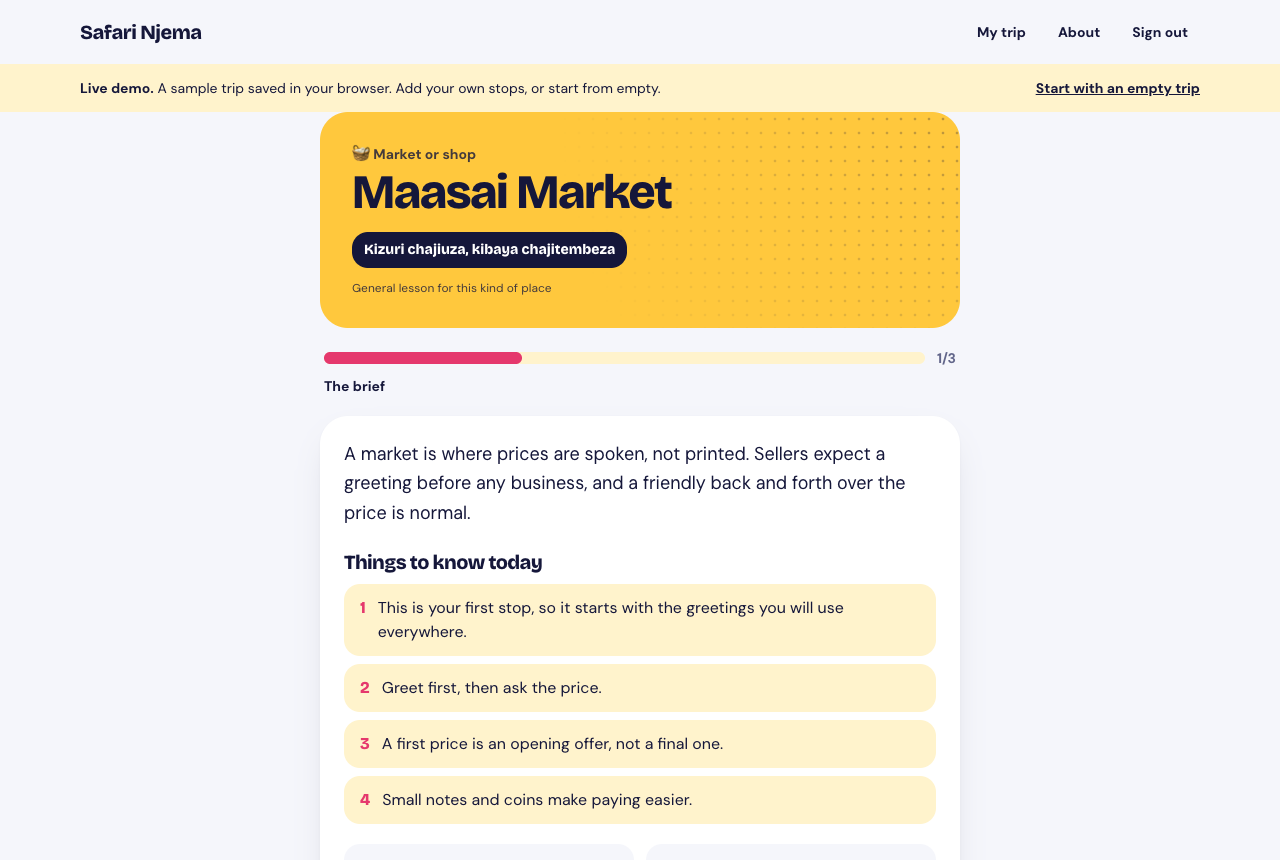
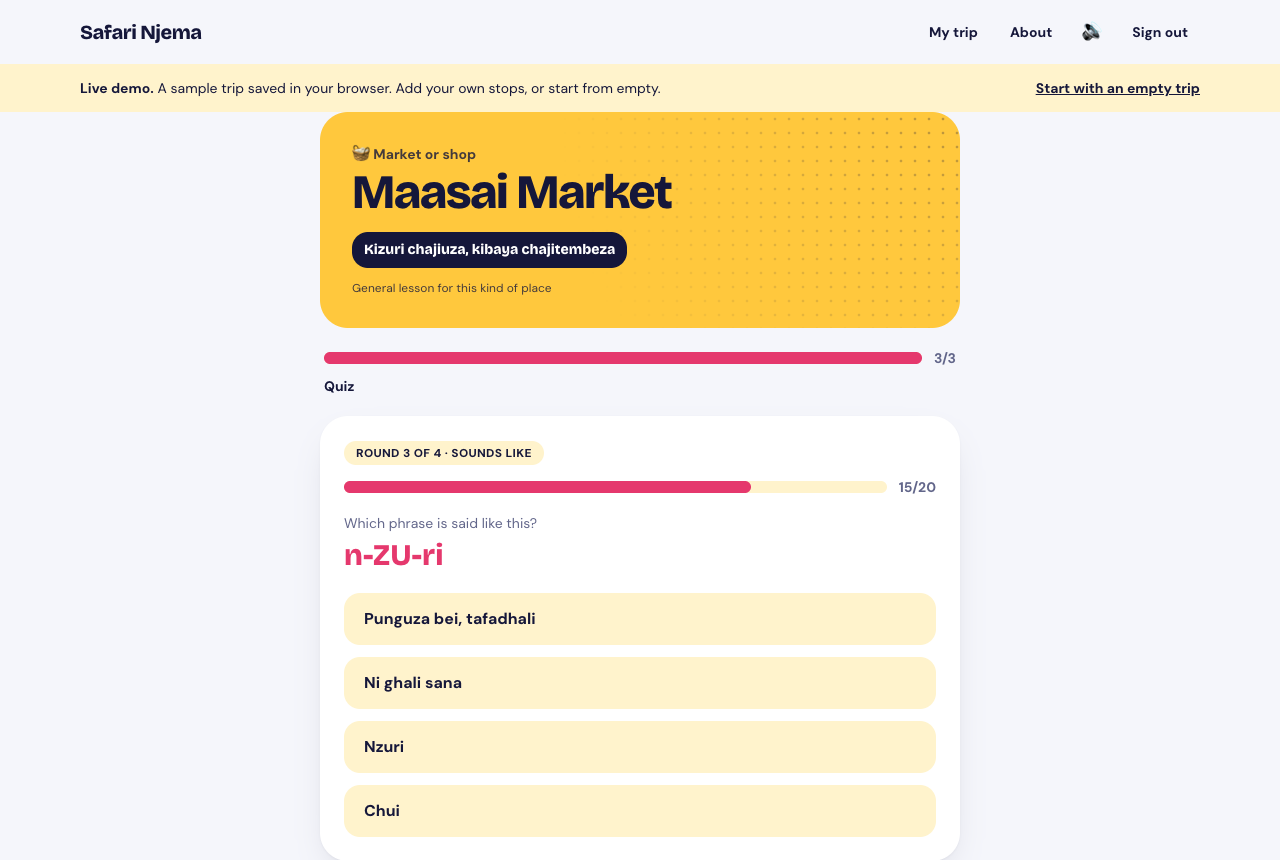
Update the README and screenshots for pins, sound, quizzes and dates

diff --git a/README.md b/README.md
@@ -8,16 +8,16 @@ You add the places you are going. Each stop becomes a five minute Swahili lesson
 
 ![The landing page](docs/screenshots/landing.png)
 
-| The trip planner | A lesson | On a phone, dark mode |
+| The trip planner | A quiz round | On a phone, dark mode |
 |---|---|---|
-| ![Trip planner with a map of Kenya and three stops](docs/screenshots/trip.png) | ![The brief step of a lesson](docs/screenshots/lesson.png) | ![The trip planner on a phone in dark mode](docs/screenshots/phone-dark.png) |
+| ![Trip planner with a map of Kenya and three stops](docs/screenshots/trip.png) | ![Round three of a quiz, matching a pronunciation to its phrase](docs/screenshots/lesson.png) | ![The trip planner on a phone in dark mode](docs/screenshots/phone-dark.png) |
 
 ## Why it is interesting
 
 - **Lessons come from a phrase bank, not free text.** Language models make mistakes in Swahili, so the model may only choose from 95 phrases, each tagged by hand. It picks and explains. It does not invent.
 - **An AI switch.** With it on, Claude writes the brief and picks phrases, and its JSON is validated with zod. With it off, a template builds the lesson from the same candidates. The live site runs with it off, so it costs nothing to host.
 - **One pipeline, two runtimes.** Scoring, the slot plan and the template are pure TypeScript. The same files run in a Supabase Edge Function and in the browser demo.
-- **Tests that read the lessons.** 40 unit tests. They assert the exact phrases for a market, a beach and a game reserve, then sweep every kind of place so the bill never shows up at an airport.
+- **Tests that read the lessons.** 52 unit tests. They assert the exact phrases for a market, a beach and a game reserve, then sweep every kind of place so the bill never shows up at an airport.
 - **Row Level Security on every table**, with a database function so users never need write access to shared tables.
 - **Written to be read.** One feature per folder, no file over 200 lines, and every file opens by saying what it does and why it exists.
 
@@ -72,8 +72,11 @@ When the Supabase values are missing, the app runs in demo mode. This is what th
 
 - The landing page has one button, "Try the live demo". It opens a ready-made trip: Maasai Market, Diani Beach and the Maasai Mara, each with its own lesson.
 - Search a built-in list of 21 well known Kenyan places, one for every kind of place. Searching "Paris" finds nothing, like the real Kenya-only search.
-- Add a place with a day and activities. It appears as a numbered pin on a sketch map of Kenya and as a row in the itinerary, with the "Preparing your lesson" state.
+- Add a place with a day and activities. It appears as a numbered pin on a sketch map of Kenya and as a row in the itinerary, with the "Preparing your lesson" state. Stops in the same town fan out into a ring so each pin can be clicked, and picking a pin shows its name and rings its row.
 - Lessons are built in the browser by the same pure functions the Edge Function uses, from the same seed phrases. The first stop teaches greetings and later stops do not. Each lesson carries a Swahili proverb from the seeded list, the kanga idea.
+- Quizzes run four rounds: what it means, say it in Swahili, sounds like, and fill the gap. Wrong answers are drawn from the whole phrase bank, and anything missed comes back once in a second chance round. About twenty questions a lesson, and only first tries count.
+- Dates are free. Trip dates can be set, changed or cleared at any time. A stop can take any date, inside the trip or not, and can be moved to another day later. The list and the pin numbers follow the dates.
+- Sound effects for taps, right and wrong answers, a new stop and a finished lesson. They are made with Web Audio, so there are no audio files, and the speaker button in the top bar mutes them for good.
 - Finish a quiz and the stop turns green and the trip's progress bar moves. "Start with an empty trip" clears the sample so the first stop flow can be tried from scratch.
 
 Demo data lives in the browser's localStorage. Demo mode is only ever on when the Supabase values are missing, so once they are set on Vercel the site becomes the real product with accounts. The code is in `src/features/demo/`, and each data hook switches to it with one `if (isDemoMode)`.
@@ -139,7 +142,8 @@ Left for right after the deadline: Google sign in, the Today screen, onboarding,
 - `useStops.ts` then calls the Edge Function and waits. The list row shows "Preparing your lesson" until it returns.
 - `supabase/functions/_shared/pickCandidates.ts` scores every phrase in the bank by its tags. Greetings score high on the first stop and are dropped afterwards. Sheng is left out by default.
 - `supabase/functions/_shared/lessonPlan.ts` holds the tables: which tags matter for each kind of place, activity and region, and the six ordered slots a template lesson fills. A market is price, numbers, bargaining, numbers, shopping, bargaining. Each phrase's "why here" line comes from the slot that chose it.
-- `LessonScreen.tsx` reads the lesson JSON, loads the phrase rows it points at, and builds the quiz with `src/lib/quiz.ts`.
+- `LessonScreen.tsx` reads the lesson JSON and loads the phrase rows it points at. `src/lib/quiz.ts` builds the four quiz rounds as a pure function. Fill the gap only ever blanks a word that is already in the bank, and takes its wrong words from the same position in other phrases.
+- `src/lib/orderStops.ts` sorts stops by date and works out "Day 3". `src/lib/spreadPins.ts` fans out pins that would overlap. `src/lib/sounds.ts` plays the sound effects. All three are small and the first two are tested.
 
 ## Dependencies and why
 
